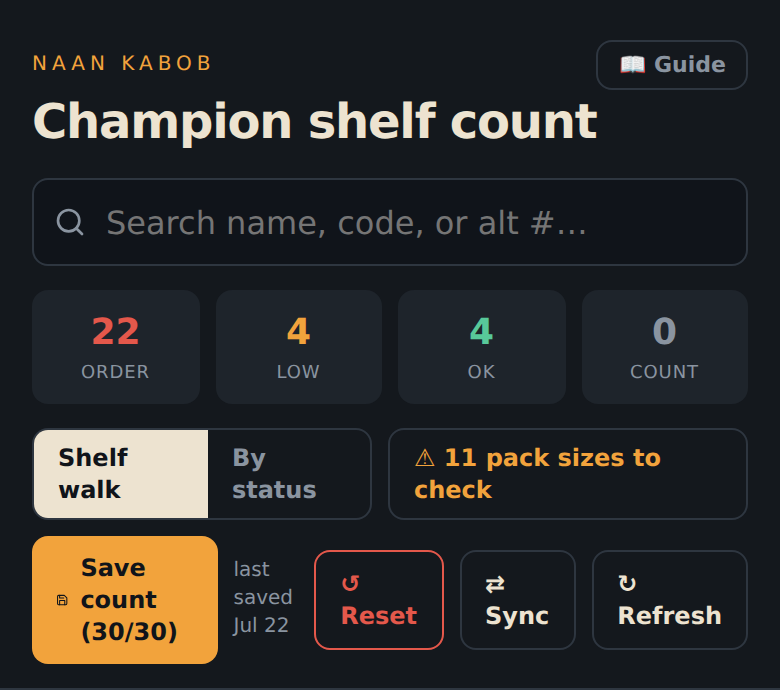
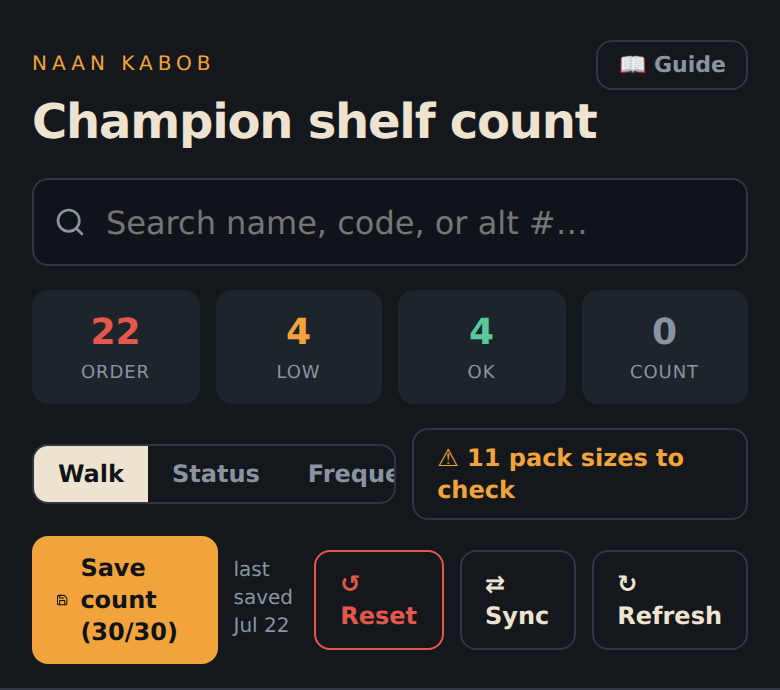
Frequent sort mode on the Count tab, ranked by logged orders
New third sort next to Walk / Status: 'Frequent' lists items by how
often they appear in logged orders (most first), falling back to each
item's usage rate until order history builds up, then by name. The
owner's fast movers cut across stations (doogh, burger bags, fries
boxes, soaps), so station grouping scatters exactly the items they
touch most.

No schema changes; ranking is computed from the existing orders log.
Toggle labels shortened (Walk / Status / Frequent) to fit three.
Guides updated; screenshots re-captured.

Verified: syntax both apps + browser test (toggle shows; with cutlery
in 2 logged orders and napkin in 1, list ranks cutlery, napkin, then
highest-usage items; no page errors).

Claude-Session: https://claude.ai/code/session_01PUTfKAwXbS82RkU7S3sQmm

Changed region(s): [[0.0308, 0.6087, 0.8923, 0.7609]]

diff --git a/champion/index.html b/champion/index.html
@@ -823,6 +823,7 @@ function ChampionTracker() {
   }), [stocks, stockAt, caps, reord, orderOv, packcfg, orderAge, dailyOf, rateOf, dwin, today]);
   const counted = useMemo(() => rows.filter((r) => !r.bk && r.cur !== void 0).length, [rows]);
   const recounted = useMemo(() => rows.filter((r) => !r.bk && r.countedAt && (!counts.length || new Date(r.countedAt) > new Date(counts[counts.length - 1].date))).length, [rows, counts]);
+  const orderFreq = useMemo(() => { const m = {}; for (const o of orders) for (const id of Object.keys(o.items || {})) m[id] = (m[id] || 0) + 1; return m; }, [orders]);
   const variance = useMemo(() => {
     if (counts.length < 2) return null;
     const prev = counts[counts.length - 2];
@@ -982,7 +983,7 @@ ${lines.join("\n")}`;
     { id: "usage", label: "Usage", Icon: BarChart3 },
     { id: "order", label: "Order", Icon: Send }
   ];
-  return /* @__PURE__ */ React.createElement("div", { style: { background: C.bg, minHeight: "100vh", color: C.naan, fontFamily: "ui-sans-serif, system-ui", paddingBottom: "calc(92px + env(safe-area-inset-bottom))" } }, /* @__PURE__ */ React.createElement("style", null, `* { -webkit-tap-highlight-color: transparent; } button, a { -webkit-user-select: none; user-select: none; touch-action: manipulation; } .sticky.top-0 { padding-top: calc(20px + env(safe-area-inset-top)); }`), view === "count" && /* @__PURE__ */ React.createElement(CountView, { ...{ rows, counted, countMode, setCountMode, setStock, setCap, setReorder, setOrderQty, setPackVal, cycle, setCycle, saveCount, resetCounts, lastCount, setShowSync } }), view === "receive" && /* @__PURE__ */ React.createElement(ReceiveView, { ...{ rows, recv, setRecvQty, recvNote, setRecvNote, logDelivery, receipts, lastOrder, undoReceipt } }), view === "variance" && /* @__PURE__ */ React.createElement(VarianceView, { variance, counts, lastCount }), view === "usage" && React.createElement(UsageView, { counts, receipts, rows }), view === "order" && /* @__PURE__ */ React.createElement(OrderView, { ...{ orderRows, orderText, cycle, copyOrder, copied, shareOrder, sentPrompt, setSentPrompt, markOrdered, orders, dwin } }), showSync && /* @__PURE__ */ React.createElement("div", { className: "fixed inset-0 z-50 flex items-end justify-center", style: { background: "rgba(0,0,0,0.6)" }, onClick: () => setShowSync(false) }, /* @__PURE__ */ React.createElement("div", { className: "w-full rounded-t-2xl p-4", style: { background: C.card, maxWidth: 520, paddingBottom: "calc(28px + env(safe-area-inset-bottom))" }, onClick: (e) => e.stopPropagation() }, /* @__PURE__ */ React.createElement("div", { className: "flex items-center justify-between mb-1" }, /* @__PURE__ */ React.createElement("div", { className: "text-lg font-black" }, "Move data between devices"), /* @__PURE__ */ React.createElement("button", { onClick: () => setShowSync(false), className: "text-sm font-bold", style: { color: C.steel } }, "Close")), React.createElement("div", { className: "text-[11px] mb-1", style: { color: C.steel } }, lastSync ? "Cloud sync \xB7 last synced " + syncAgo(lastSync) : syncErr ? "Cloud sync \xB7 offline \u2014 changes are saved on this phone" : "Cloud sync \xB7 connecting\u2026"), /* @__PURE__ */ React.createElement("div", { className: "mt-3" }, /* @__PURE__ */ React.createElement("div", { className: "text-[11px] font-black uppercase tracking-wider mb-1", style: { color: C.saffron } }, "1 \xB7 On the device that HAS your data"), /* @__PURE__ */ React.createElement("div", { className: "text-xs mb-2", style: { color: C.steel } }, "Tap Copy, then send the code to your other device (text it to yourself, email, or Notes)."), /* @__PURE__ */ React.createElement(
+  return /* @__PURE__ */ React.createElement("div", { style: { background: C.bg, minHeight: "100vh", color: C.naan, fontFamily: "ui-sans-serif, system-ui", paddingBottom: "calc(92px + env(safe-area-inset-bottom))" } }, /* @__PURE__ */ React.createElement("style", null, `* { -webkit-tap-highlight-color: transparent; } button, a { -webkit-user-select: none; user-select: none; touch-action: manipulation; } .sticky.top-0 { padding-top: calc(20px + env(safe-area-inset-top)); }`), view === "count" && /* @__PURE__ */ React.createElement(CountView, { ...{ rows, counted, countMode, setCountMode, setStock, setCap, setReorder, setOrderQty, setPackVal, cycle, setCycle, saveCount, resetCounts, lastCount, setShowSync, orderFreq } }), view === "receive" && /* @__PURE__ */ React.createElement(ReceiveView, { ...{ rows, recv, setRecvQty, recvNote, setRecvNote, logDelivery, receipts, lastOrder, undoReceipt } }), view === "variance" && /* @__PURE__ */ React.createElement(VarianceView, { variance, counts, lastCount }), view === "usage" && React.createElement(UsageView, { counts, receipts, rows }), view === "order" && /* @__PURE__ */ React.createElement(OrderView, { ...{ orderRows, orderText, cycle, copyOrder, copied, shareOrder, sentPrompt, setSentPrompt, markOrdered, orders, dwin } }), showSync && /* @__PURE__ */ React.createElement("div", { className: "fixed inset-0 z-50 flex items-end justify-center", style: { background: "rgba(0,0,0,0.6)" }, onClick: () => setShowSync(false) }, /* @__PURE__ */ React.createElement("div", { className: "w-full rounded-t-2xl p-4", style: { background: C.card, maxWidth: 520, paddingBottom: "calc(28px + env(safe-area-inset-bottom))" }, onClick: (e) => e.stopPropagation() }, /* @__PURE__ */ React.createElement("div", { className: "flex items-center justify-between mb-1" }, /* @__PURE__ */ React.createElement("div", { className: "text-lg font-black" }, "Move data between devices"), /* @__PURE__ */ React.createElement("button", { onClick: () => setShowSync(false), className: "text-sm font-bold", style: { color: C.steel } }, "Close")), React.createElement("div", { className: "text-[11px] mb-1", style: { color: C.steel } }, lastSync ? "Cloud sync \xB7 last synced " + syncAgo(lastSync) : syncErr ? "Cloud sync \xB7 offline \u2014 changes are saved on this phone" : "Cloud sync \xB7 connecting\u2026"), /* @__PURE__ */ React.createElement("div", { className: "mt-3" }, /* @__PURE__ */ React.createElement("div", { className: "text-[11px] font-black uppercase tracking-wider mb-1", style: { color: C.saffron } }, "1 \xB7 On the device that HAS your data"), /* @__PURE__ */ React.createElement("div", { className: "text-xs mb-2", style: { color: C.steel } }, "Tap Copy, then send the code to your other device (text it to yourself, email, or Notes)."), /* @__PURE__ */ React.createElement(
     "textarea",
     {
       readOnly: true,
@@ -1044,7 +1045,7 @@ ${lines.join("\n")}`;
     ));
   })));
 }
-function CountView({ rows, counted, countMode, setCountMode, setStock, setCap, setReorder, setOrderQty, setPackVal, cycle, setCycle, saveCount, resetCounts, lastCount, setShowSync }) {
+function CountView({ rows, counted, countMode, setCountMode, setStock, setCap, setReorder, setOrderQty, setPackVal, cycle, setCycle, saveCount, resetCounts, lastCount, setShowSync, orderFreq }) {
   const [query, setQuery] = useState("");
   const [verifyOnly, setVerifyOnly] = useState(false);
   const [countOnly, setCountOnly] = useState(false);
@@ -1058,8 +1059,8 @@ function CountView({ rows, counted, countMode, setCountMode, setStock, setCap, s
   const sorted = countMode === "status" ? [...filtered].sort((a, b) => {
     const rank = { order: 0, low: 1, none: 2, ok: 3, backup: 4 };
     return rank[a.status] - rank[b.status] || b.use - a.use;
-  }) : filtered;
-  return /* @__PURE__ */ React.createElement(React.Fragment, null, /* @__PURE__ */ React.createElement("div", { className: "px-4 pt-5 pb-3 sticky top-0 z-20", style: { background: C.bg, borderBottom: `1px solid ${C.line}` } }, React.createElement("div", { className: "flex items-center justify-between" }, React.createElement("div", { className: "text-[10px] uppercase tracking-[0.25em]", style: { color: C.saffron } }, "Naan Kabob"), React.createElement("a", { href: "../guide/", className: "text-[11px] font-bold px-2.5 py-1 rounded-lg no-underline", style: { border: "1px solid " + C.line, color: C.steel } }, "\uD83D\uDCD6 Guide")), /* @__PURE__ */ React.createElement("div", { className: "text-2xl font-black tracking-tight" }, "Champion shelf count"), /* @__PURE__ */ React.createElement("div", { className: "relative mt-3" }, /* @__PURE__ */ React.createElement(Search, { size: 16, style: { color: C.steel, position: "absolute", left: 11, top: "50%", transform: "translateY(-50%)", pointerEvents: "none" } }), /* @__PURE__ */ React.createElement("input", { value: query, onChange: (e) => setQuery(e.target.value), placeholder: "Search name, code, or alt #…", inputMode: "search", autoCapitalize: "none", autoCorrect: "off", spellCheck: false, className: "w-full h-11 rounded-lg outline-none", style: { background: C.ink, color: C.naan, border: `1px solid ${q ? C.saffron : C.line}`, paddingLeft: 36, paddingRight: query ? 60 : 12, fontSize: 16 } }), query && /* @__PURE__ */ React.createElement("button", { onClick: () => setQuery(""), "aria-label": "clear search", className: "absolute flex items-center justify-center rounded-md active:scale-95", style: { right: 8, top: "50%", transform: "translateY(-50%)", width: 28, height: 28, background: C.cardUp, color: C.steel } }, /* @__PURE__ */ React.createElement(X, { size: 15 }))), q && /* @__PURE__ */ React.createElement("div", { className: "text-[11px] mt-1.5 px-0.5", style: { color: C.steel } }, filtered.length, " match", filtered.length === 1 ? "" : "es", " for “", query.trim(), "”"), /* @__PURE__ */ React.createElement("div", { className: "flex gap-2 mt-3" }, [["order", counts.order], ["low", counts.low], ["ok", counts.ok], ["none", counts.none]].map(([k, n]) => /* @__PURE__ */ React.createElement("div", { key: k, className: "flex-1 rounded-lg py-2 text-center", style: { background: C.card } }, /* @__PURE__ */ React.createElement("div", { className: "text-lg font-black", style: { color: STATUS_META[k].color } }, n), /* @__PURE__ */ React.createElement("div", { className: "text-[9px] uppercase tracking-wider", style: { color: C.steel } }, STATUS_META[k].label)))), /* @__PURE__ */ React.createElement("div", { className: "flex items-center gap-2 mt-3" }, /* @__PURE__ */ React.createElement("div", { className: "flex rounded-lg overflow-hidden text-xs font-bold", style: { border: `1px solid ${C.line}` } }, [["walk", "Shelf walk"], ["status", "By status"]].map(([v, lbl]) => /* @__PURE__ */ React.createElement(
+  }) : countMode === "freq" ? [...filtered].sort((a, b) => ((orderFreq[b.id] || 0) - (orderFreq[a.id] || 0)) || ((b.daily || 0) - (a.daily || 0)) || a.name.localeCompare(b.name)) : filtered;
+  return /* @__PURE__ */ React.createElement(React.Fragment, null, /* @__PURE__ */ React.createElement("div", { className: "px-4 pt-5 pb-3 sticky top-0 z-20", style: { background: C.bg, borderBottom: `1px solid ${C.line}` } }, React.createElement("div", { className: "flex items-center justify-between" }, React.createElement("div", { className: "text-[10px] uppercase tracking-[0.25em]", style: { color: C.saffron } }, "Naan Kabob"), React.createElement("a", { href: "../guide/", className: "text-[11px] font-bold px-2.5 py-1 rounded-lg no-underline", style: { border: "1px solid " + C.line, color: C.steel } }, "\uD83D\uDCD6 Guide")), /* @__PURE__ */ React.createElement("div", { className: "text-2xl font-black tracking-tight" }, "Champion shelf count"), /* @__PURE__ */ React.createElement("div", { className: "relative mt-3" }, /* @__PURE__ */ React.createElement(Search, { size: 16, style: { color: C.steel, position: "absolute", left: 11, top: "50%", transform: "translateY(-50%)", pointerEvents: "none" } }), /* @__PURE__ */ React.createElement("input", { value: query, onChange: (e) => setQuery(e.target.value), placeholder: "Search name, code, or alt #…", inputMode: "search", autoCapitalize: "none", autoCorrect: "off", spellCheck: false, className: "w-full h-11 rounded-lg outline-none", style: { background: C.ink, color: C.naan, border: `1px solid ${q ? C.saffron : C.line}`, paddingLeft: 36, paddingRight: query ? 60 : 12, fontSize: 16 } }), query && /* @__PURE__ */ React.createElement("button", { onClick: () => setQuery(""), "aria-label": "clear search", className: "absolute flex items-center justify-center rounded-md active:scale-95", style: { right: 8, top: "50%", transform: "translateY(-50%)", width: 28, height: 28, background: C.cardUp, color: C.steel } }, /* @__PURE__ */ React.createElement(X, { size: 15 }))), q && /* @__PURE__ */ React.createElement("div", { className: "text-[11px] mt-1.5 px-0.5", style: { color: C.steel } }, filtered.length, " match", filtered.length === 1 ? "" : "es", " for “", query.trim(), "”"), /* @__PURE__ */ React.createElement("div", { className: "flex gap-2 mt-3" }, [["order", counts.order], ["low", counts.low], ["ok", counts.ok], ["none", counts.none]].map(([k, n]) => /* @__PURE__ */ React.createElement("div", { key: k, className: "flex-1 rounded-lg py-2 text-center", style: { background: C.card } }, /* @__PURE__ */ React.createElement("div", { className: "text-lg font-black", style: { color: STATUS_META[k].color } }, n), /* @__PURE__ */ React.createElement("div", { className: "text-[9px] uppercase tracking-wider", style: { color: C.steel } }, STATUS_META[k].label)))), /* @__PURE__ */ React.createElement("div", { className: "flex items-center gap-2 mt-3" }, /* @__PURE__ */ React.createElement("div", { className: "flex rounded-lg overflow-hidden text-xs font-bold", style: { border: `1px solid ${C.line}` } }, [["walk", "Walk"], ["status", "Status"], ["freq", "Frequent"]].map(([v, lbl]) => /* @__PURE__ */ React.createElement(
     "button",
     {
       key: v,

diff --git a/sysco/index.html b/sysco/index.html
@@ -810,6 +810,7 @@ function ChampionTracker() {
   }), [stocks, stockAt, caps, reord, orderOv, packcfg, orderAge, dailyOf, rateOf, dwin, today]);
   const counted = useMemo(() => rows.filter((r) => !r.bk && r.cur !== void 0).length, [rows]);
   const recounted = useMemo(() => rows.filter((r) => !r.bk && r.countedAt && (!counts.length || new Date(r.countedAt) > new Date(counts[counts.length - 1].date))).length, [rows, counts]);
+  const orderFreq = useMemo(() => { const m = {}; for (const o of orders) for (const id of Object.keys(o.items || {})) m[id] = (m[id] || 0) + 1; return m; }, [orders]);
   const variance = useMemo(() => {
     if (counts.length < 2) return null;
     const prev = counts[counts.length - 2];
@@ -969,7 +970,7 @@ ${lines.join("\n")}`;
     { id: "usage", label: "Usage", Icon: BarChart3 },
     { id: "order", label: "Order", Icon: Send }
   ];
-  return /* @__PURE__ */ React.createElement("div", { style: { background: C.bg, minHeight: "100vh", color: C.naan, fontFamily: "ui-sans-serif, system-ui", paddingBottom: "calc(92px + env(safe-area-inset-bottom))" } }, /* @__PURE__ */ React.createElement("style", null, `* { -webkit-tap-highlight-color: transparent; } button, a { -webkit-user-select: none; user-select: none; touch-action: manipulation; } .sticky.top-0 { padding-top: calc(20px + env(safe-area-inset-top)); }`), view === "count" && /* @__PURE__ */ React.createElement(CountView, { ...{ rows, counted, countMode, setCountMode, setStock, setCap, setReorder, setOrderQty, setPackVal, cycle, setCycle, saveCount, resetCounts, lastCount, setShowSync } }), view === "receive" && /* @__PURE__ */ React.createElement(ReceiveView, { ...{ rows, recv, setRecvQty, recvNote, setRecvNote, logDelivery, receipts, lastOrder, undoReceipt } }), view === "variance" && /* @__PURE__ */ React.createElement(VarianceView, { variance, counts, lastCount }), view === "usage" && React.createElement(UsageView, { counts, receipts, rows }), view === "order" && /* @__PURE__ */ React.createElement(OrderView, { ...{ orderRows, orderText, cycle, copyOrder, copied, shareOrder, sentPrompt, setSentPrompt, markOrdered, orders, dwin } }), showSync && /* @__PURE__ */ React.createElement("div", { className: "fixed inset-0 z-50 flex items-end justify-center", style: { background: "rgba(0,0,0,0.6)" }, onClick: () => setShowSync(false) }, /* @__PURE__ */ React.createElement("div", { className: "w-full rounded-t-2xl p-4", style: { background: C.card, maxWidth: 520, paddingBottom: "calc(28px + env(safe-area-inset-bottom))" }, onClick: (e) => e.stopPropagation() }, /* @__PURE__ */ React.createElement("div", { className: "flex items-center justify-between mb-1" }, /* @__PURE__ */ React.createElement("div", { className: "text-lg font-black" }, "Move data between devices"), /* @__PURE__ */ React.createElement("button", { onClick: () => setShowSync(false), className: "text-sm font-bold", style: { color: C.steel } }, "Close")), React.createElement("div", { className: "text-[11px] mb-1", style: { color: C.steel } }, lastSync ? "Cloud sync \xB7 last synced " + syncAgo(lastSync) : syncErr ? "Cloud sync \xB7 offline \u2014 changes are saved on this phone" : "Cloud sync \xB7 connecting\u2026"), /* @__PURE__ */ React.createElement("div", { className: "mt-3" }, /* @__PURE__ */ React.createElement("div", { className: "text-[11px] font-black uppercase tracking-wider mb-1", style: { color: C.saffron } }, "1 \xB7 On the device that HAS your data"), /* @__PURE__ */ React.createElement("div", { className: "text-xs mb-2", style: { color: C.steel } }, "Tap Copy, then send the code to your other device (text it to yourself, email, or Notes)."), /* @__PURE__ */ React.createElement(
+  return /* @__PURE__ */ React.createElement("div", { style: { background: C.bg, minHeight: "100vh", color: C.naan, fontFamily: "ui-sans-serif, system-ui", paddingBottom: "calc(92px + env(safe-area-inset-bottom))" } }, /* @__PURE__ */ React.createElement("style", null, `* { -webkit-tap-highlight-color: transparent; } button, a { -webkit-user-select: none; user-select: none; touch-action: manipulation; } .sticky.top-0 { padding-top: calc(20px + env(safe-area-inset-top)); }`), view === "count" && /* @__PURE__ */ React.createElement(CountView, { ...{ rows, counted, countMode, setCountMode, setStock, setCap, setReorder, setOrderQty, setPackVal, cycle, setCycle, saveCount, resetCounts, lastCount, setShowSync, orderFreq } }), view === "receive" && /* @__PURE__ */ React.createElement(ReceiveView, { ...{ rows, recv, setRecvQty, recvNote, setRecvNote, logDelivery, receipts, lastOrder, undoReceipt } }), view === "variance" && /* @__PURE__ */ React.createElement(VarianceView, { variance, counts, lastCount }), view === "usage" && React.createElement(UsageView, { counts, receipts, rows }), view === "order" && /* @__PURE__ */ React.createElement(OrderView, { ...{ orderRows, orderText, cycle, copyOrder, copied, shareOrder, sentPrompt, setSentPrompt, markOrdered, orders, dwin } }), showSync && /* @__PURE__ */ React.createElement("div", { className: "fixed inset-0 z-50 flex items-end justify-center", style: { background: "rgba(0,0,0,0.6)" }, onClick: () => setShowSync(false) }, /* @__PURE__ */ React.createElement("div", { className: "w-full rounded-t-2xl p-4", style: { background: C.card, maxWidth: 520, paddingBottom: "calc(28px + env(safe-area-inset-bottom))" }, onClick: (e) => e.stopPropagation() }, /* @__PURE__ */ React.createElement("div", { className: "flex items-center justify-between mb-1" }, /* @__PURE__ */ React.createElement("div", { className: "text-lg font-black" }, "Move data between devices"), /* @__PURE__ */ React.createElement("button", { onClick: () => setShowSync(false), className: "text-sm font-bold", style: { color: C.steel } }, "Close")), React.createElement("div", { className: "text-[11px] mb-1", style: { color: C.steel } }, lastSync ? "Cloud sync \xB7 last synced " + syncAgo(lastSync) : syncErr ? "Cloud sync \xB7 offline \u2014 changes are saved on this phone" : "Cloud sync \xB7 connecting\u2026"), /* @__PURE__ */ React.createElement("div", { className: "mt-3" }, /* @__PURE__ */ React.createElement("div", { className: "text-[11px] font-black uppercase tracking-wider mb-1", style: { color: C.saffron } }, "1 \xB7 On the device that HAS your data"), /* @__PURE__ */ React.createElement("div", { className: "text-xs mb-2", style: { color: C.steel } }, "Tap Copy, then send the code to your other device (text it to yourself, email, or Notes)."), /* @__PURE__ */ React.createElement(
     "textarea",
     {
       readOnly: true,
@@ -1031,7 +1032,7 @@ ${lines.join("\n")}`;
     ));
   })));
 }
-function CountView({ rows, counted, countMode, setCountMode, setStock, setCap, setReorder, setOrderQty, setPackVal, cycle, setCycle, saveCount, resetCounts, lastCount, setShowSync }) {
+function CountView({ rows, counted, countMode, setCountMode, setStock, setCap, setReorder, setOrderQty, setPackVal, cycle, setCycle, saveCount, resetCounts, lastCount, setShowSync, orderFreq }) {
   const [query, setQuery] = useState("");
   const [verifyOnly, setVerifyOnly] = useState(false);
   const [countOnly, setCountOnly] = useState(false);
@@ -1045,8 +1046,8 @@ function CountView({ rows, counted, countMode, setCountMode, setStock, setCap, s
   const sorted = countMode === "status" ? [...filtered].sort((a, b) => {
     const rank = { order: 0, low: 1, none: 2, ok: 3, backup: 4 };
     return rank[a.status] - rank[b.status] || b.use - a.use;
-  }) : filtered;
-  return /* @__PURE__ */ React.createElement(React.Fragment, null, /* @__PURE__ */ React.createElement("div", { className: "px-4 pt-5 pb-3 sticky top-0 z-20", style: { background: C.bg, borderBottom: `1px solid ${C.line}` } }, React.createElement("div", { className: "flex items-center justify-between" }, React.createElement("div", { className: "text-[10px] uppercase tracking-[0.25em]", style: { color: C.saffron } }, "Naan Kabob"), React.createElement("a", { href: "../guide/", className: "text-[11px] font-bold px-2.5 py-1 rounded-lg no-underline", style: { border: "1px solid " + C.line, color: C.steel } }, "\uD83D\uDCD6 Guide")), /* @__PURE__ */ React.createElement("div", { className: "text-2xl font-black tracking-tight" }, "Sysco shelf count"), /* @__PURE__ */ React.createElement("div", { className: "relative mt-3" }, /* @__PURE__ */ React.createElement(Search, { size: 16, style: { color: C.steel, position: "absolute", left: 11, top: "50%", transform: "translateY(-50%)", pointerEvents: "none" } }), /* @__PURE__ */ React.createElement("input", { value: query, onChange: (e) => setQuery(e.target.value), placeholder: "Search name, code, or alt #…", inputMode: "search", autoCapitalize: "none", autoCorrect: "off", spellCheck: false, className: "w-full h-11 rounded-lg outline-none", style: { background: C.ink, color: C.naan, border: `1px solid ${q ? C.saffron : C.line}`, paddingLeft: 36, paddingRight: query ? 60 : 12, fontSize: 16 } }), query && /* @__PURE__ */ React.createElement("button", { onClick: () => setQuery(""), "aria-label": "clear search", className: "absolute flex items-center justify-center rounded-md active:scale-95", style: { right: 8, top: "50%", transform: "translateY(-50%)", width: 28, height: 28, background: C.cardUp, color: C.steel } }, /* @__PURE__ */ React.createElement(X, { size: 15 }))), q && /* @__PURE__ */ React.createElement("div", { className: "text-[11px] mt-1.5 px-0.5", style: { color: C.steel } }, filtered.length, " match", filtered.length === 1 ? "" : "es", " for “", query.trim(), "”"), /* @__PURE__ */ React.createElement("div", { className: "flex gap-2 mt-3" }, [["order", counts.order], ["low", counts.low], ["ok", counts.ok], ["none", counts.none]].map(([k, n]) => /* @__PURE__ */ React.createElement("div", { key: k, className: "flex-1 rounded-lg py-2 text-center", style: { background: C.card } }, /* @__PURE__ */ React.createElement("div", { className: "text-lg font-black", style: { color: STATUS_META[k].color } }, n), /* @__PURE__ */ React.createElement("div", { className: "text-[9px] uppercase tracking-wider", style: { color: C.steel } }, STATUS_META[k].label)))), /* @__PURE__ */ React.createElement("div", { className: "flex items-center gap-2 mt-3" }, /* @__PURE__ */ React.createElement("div", { className: "flex rounded-lg overflow-hidden text-xs font-bold", style: { border: `1px solid ${C.line}` } }, [["walk", "Shelf walk"], ["status", "By status"]].map(([v, lbl]) => /* @__PURE__ */ React.createElement(
+  }) : countMode === "freq" ? [...filtered].sort((a, b) => ((orderFreq[b.id] || 0) - (orderFreq[a.id] || 0)) || ((b.daily || 0) - (a.daily || 0)) || a.name.localeCompare(b.name)) : filtered;
+  return /* @__PURE__ */ React.createElement(React.Fragment, null, /* @__PURE__ */ React.createElement("div", { className: "px-4 pt-5 pb-3 sticky top-0 z-20", style: { background: C.bg, borderBottom: `1px solid ${C.line}` } }, React.createElement("div", { className: "flex items-center justify-between" }, React.createElement("div", { className: "text-[10px] uppercase tracking-[0.25em]", style: { color: C.saffron } }, "Naan Kabob"), React.createElement("a", { href: "../guide/", className: "text-[11px] font-bold px-2.5 py-1 rounded-lg no-underline", style: { border: "1px solid " + C.line, color: C.steel } }, "\uD83D\uDCD6 Guide")), /* @__PURE__ */ React.createElement("div", { className: "text-2xl font-black tracking-tight" }, "Sysco shelf count"), /* @__PURE__ */ React.createElement("div", { className: "relative mt-3" }, /* @__PURE__ */ React.createElement(Search, { size: 16, style: { color: C.steel, position: "absolute", left: 11, top: "50%", transform: "translateY(-50%)", pointerEvents: "none" } }), /* @__PURE__ */ React.createElement("input", { value: query, onChange: (e) => setQuery(e.target.value), placeholder: "Search name, code, or alt #…", inputMode: "search", autoCapitalize: "none", autoCorrect: "off", spellCheck: false, className: "w-full h-11 rounded-lg outline-none", style: { background: C.ink, color: C.naan, border: `1px solid ${q ? C.saffron : C.line}`, paddingLeft: 36, paddingRight: query ? 60 : 12, fontSize: 16 } }), query && /* @__PURE__ */ React.createElement("button", { onClick: () => setQuery(""), "aria-label": "clear search", className: "absolute flex items-center justify-center rounded-md active:scale-95", style: { right: 8, top: "50%", transform: "translateY(-50%)", width: 28, height: 28, background: C.cardUp, color: C.steel } }, /* @__PURE__ */ React.createElement(X, { size: 15 }))), q && /* @__PURE__ */ React.createElement("div", { className: "text-[11px] mt-1.5 px-0.5", style: { color: C.steel } }, filtered.length, " match", filtered.length === 1 ? "" : "es", " for “", query.trim(), "”"), /* @__PURE__ */ React.createElement("div", { className: "flex gap-2 mt-3" }, [["order", counts.order], ["low", counts.low], ["ok", counts.ok], ["none", counts.none]].map(([k, n]) => /* @__PURE__ */ React.createElement("div", { key: k, className: "flex-1 rounded-lg py-2 text-center", style: { background: C.card } }, /* @__PURE__ */ React.createElement("div", { className: "text-lg font-black", style: { color: STATUS_META[k].color } }, n), /* @__PURE__ */ React.createElement("div", { className: "text-[9px] uppercase tracking-wider", style: { color: C.steel } }, STATUS_META[k].label)))), /* @__PURE__ */ React.createElement("div", { className: "flex items-center gap-2 mt-3" }, /* @__PURE__ */ React.createElement("div", { className: "flex rounded-lg overflow-hidden text-xs font-bold", style: { border: `1px solid ${C.line}` } }, [["walk", "Walk"], ["status", "Status"], ["freq", "Frequent"]].map(([v, lbl]) => /* @__PURE__ */ React.createElement(
     "button",
     {
       key: v,

diff --git a/guide/index.html b/guide/index.html
@@ -83,8 +83,10 @@ order text says <strong>2 cs</strong> — it converts for you.</div>
 <p>The <strong>Count</strong> tab is home. From the top:</p>
 <p><strong>Search</strong> finds any item by name or code.
 The four boxes show how many items are at each status.
-<strong>Shelf walk</strong> lists items in the order they sit in the restaurant;
-<strong>By status</strong> puts the urgent ones first.</p>
+<strong>Walk</strong> lists items in the order they sit in the restaurant;
+<strong>Status</strong> puts the urgent ones first; <strong>Frequent</strong>
+puts your most-ordered items on top (until enough orders are logged, it uses
+how fast you go through things).</p>
 <p>Walk the shelves and enter what you see: tap the big number and type, or use
 <strong>−</strong> and <strong>+</strong>. That's the whole job.</p>
 <p>While you count, a floating <strong>"Counted 12 of 43 — Save count"</strong>
@@ -163,7 +165,7 @@ other supplier. The app stops nagging about them.</p>
 <img src="img/verify-filter.png" alt="The needs-verification filter in the header" width="780" height="636"/>
 <p>Some pack sizes were set up as best guesses and wear a small
 <strong>⚠ verify</strong> chip. The <strong>⚠ N pack sizes to check</strong>
-button next to the Shelf walk switch shows only those items. Next time a case
+button next to the sort switch shows only those items. Next time a case
 of one of them comes in, look at the box, fix <strong>per case</strong> under
 Levels if needed, and the ⚠ disappears. The button goes away when everything
 is confirmed. Its neighbor, <strong>"N to count"</strong>, works the same way

diff --git a/GUIDE.md b/GUIDE.md
@@ -39,8 +39,8 @@ the shelf. It is *not* always a case:
 a "⚠ verify /case" chip on the Count card and "⚠ pack size unconfirmed — case
 qty estimated" on Order rows. Users confirm real pack sizes from box labels over
 time; both values are editable per item under **Levels → Count in / per case**.
-A **⚠ N pack sizes to check** button next to the Shelf walk / By status switch
-on the Count tab filters the list to just these unconfirmed items (it
+A **⚠ N pack sizes to check** button next to the Walk / Status / Frequent
+switch on the Count tab filters the list to just these unconfirmed items (it
 disappears once everything is confirmed). A sibling **N to count** button does
 the same for items with no on-hand number yet. The card's stock bar renders as
 segments for Max ≤ 16 and as a continuous fill bar above that (the orange tick
@@ -106,7 +106,10 @@ estimate is never mistaken for a fresh count.
 
 ## 6. The five tabs
 
-1. **Count** — shelf walk (grouped by station) or by-status list. Type or ±
+1. **Count** — three sort modes: **Walk** (grouped by station, matches the
+   shelves), **Status** (urgent first), and **Frequent** (items appearing in
+   the most logged orders first; until order history builds up it falls back
+   to each item's usage rate). Type or ±
    what's on the shelf, in counting units. "Levels" on each card edits Max,
    Reorder-at, pack config, and the Backup toggle. **Save count** stores a
    dated snapshot of only the items recounted since the previous save (items